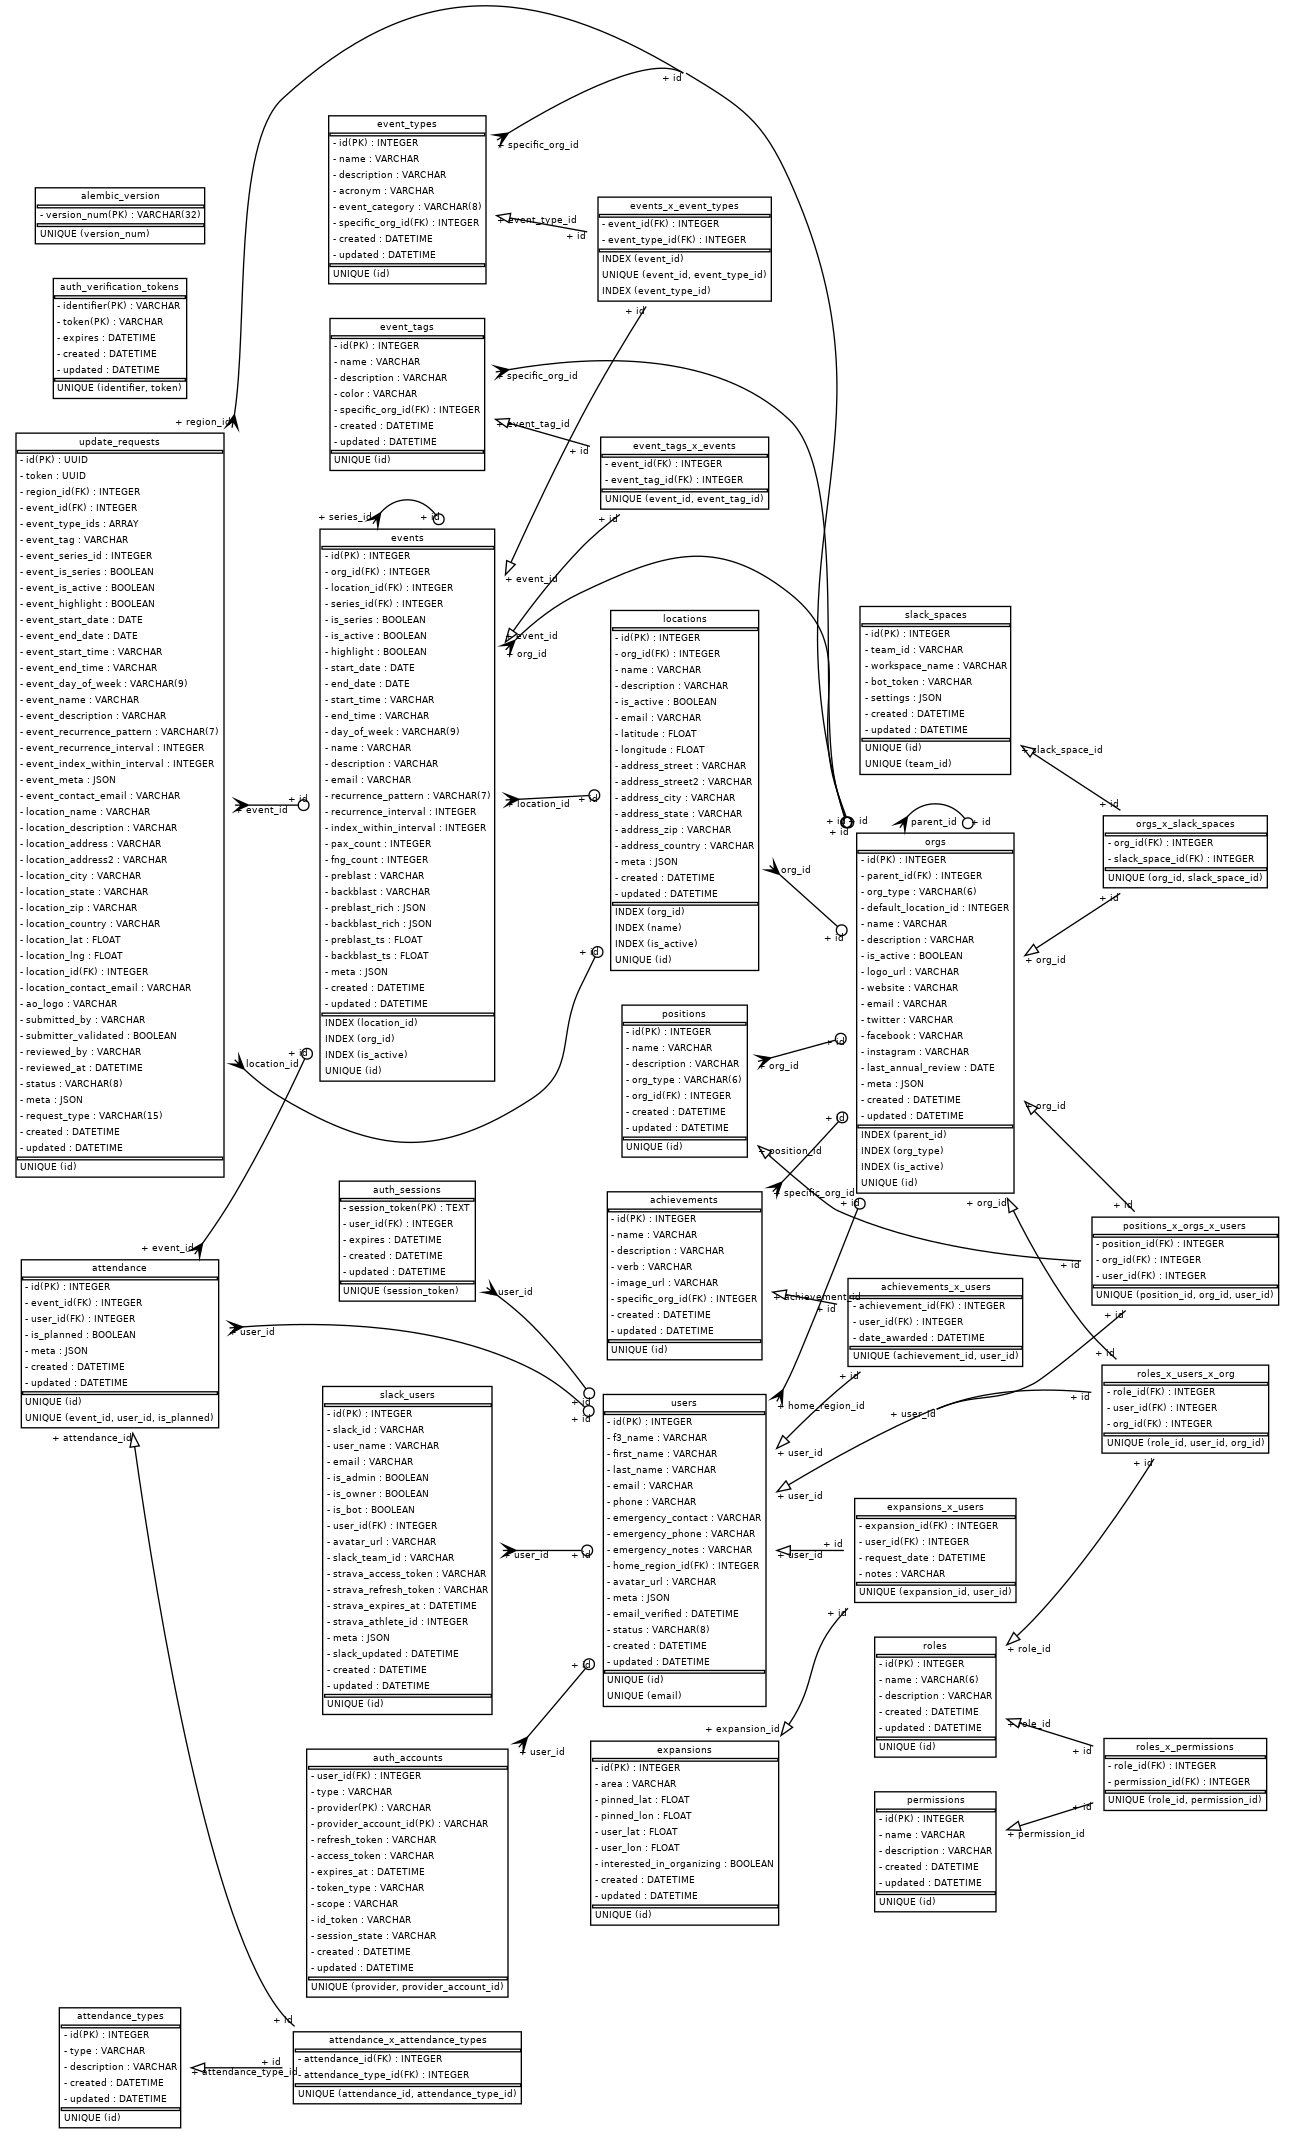
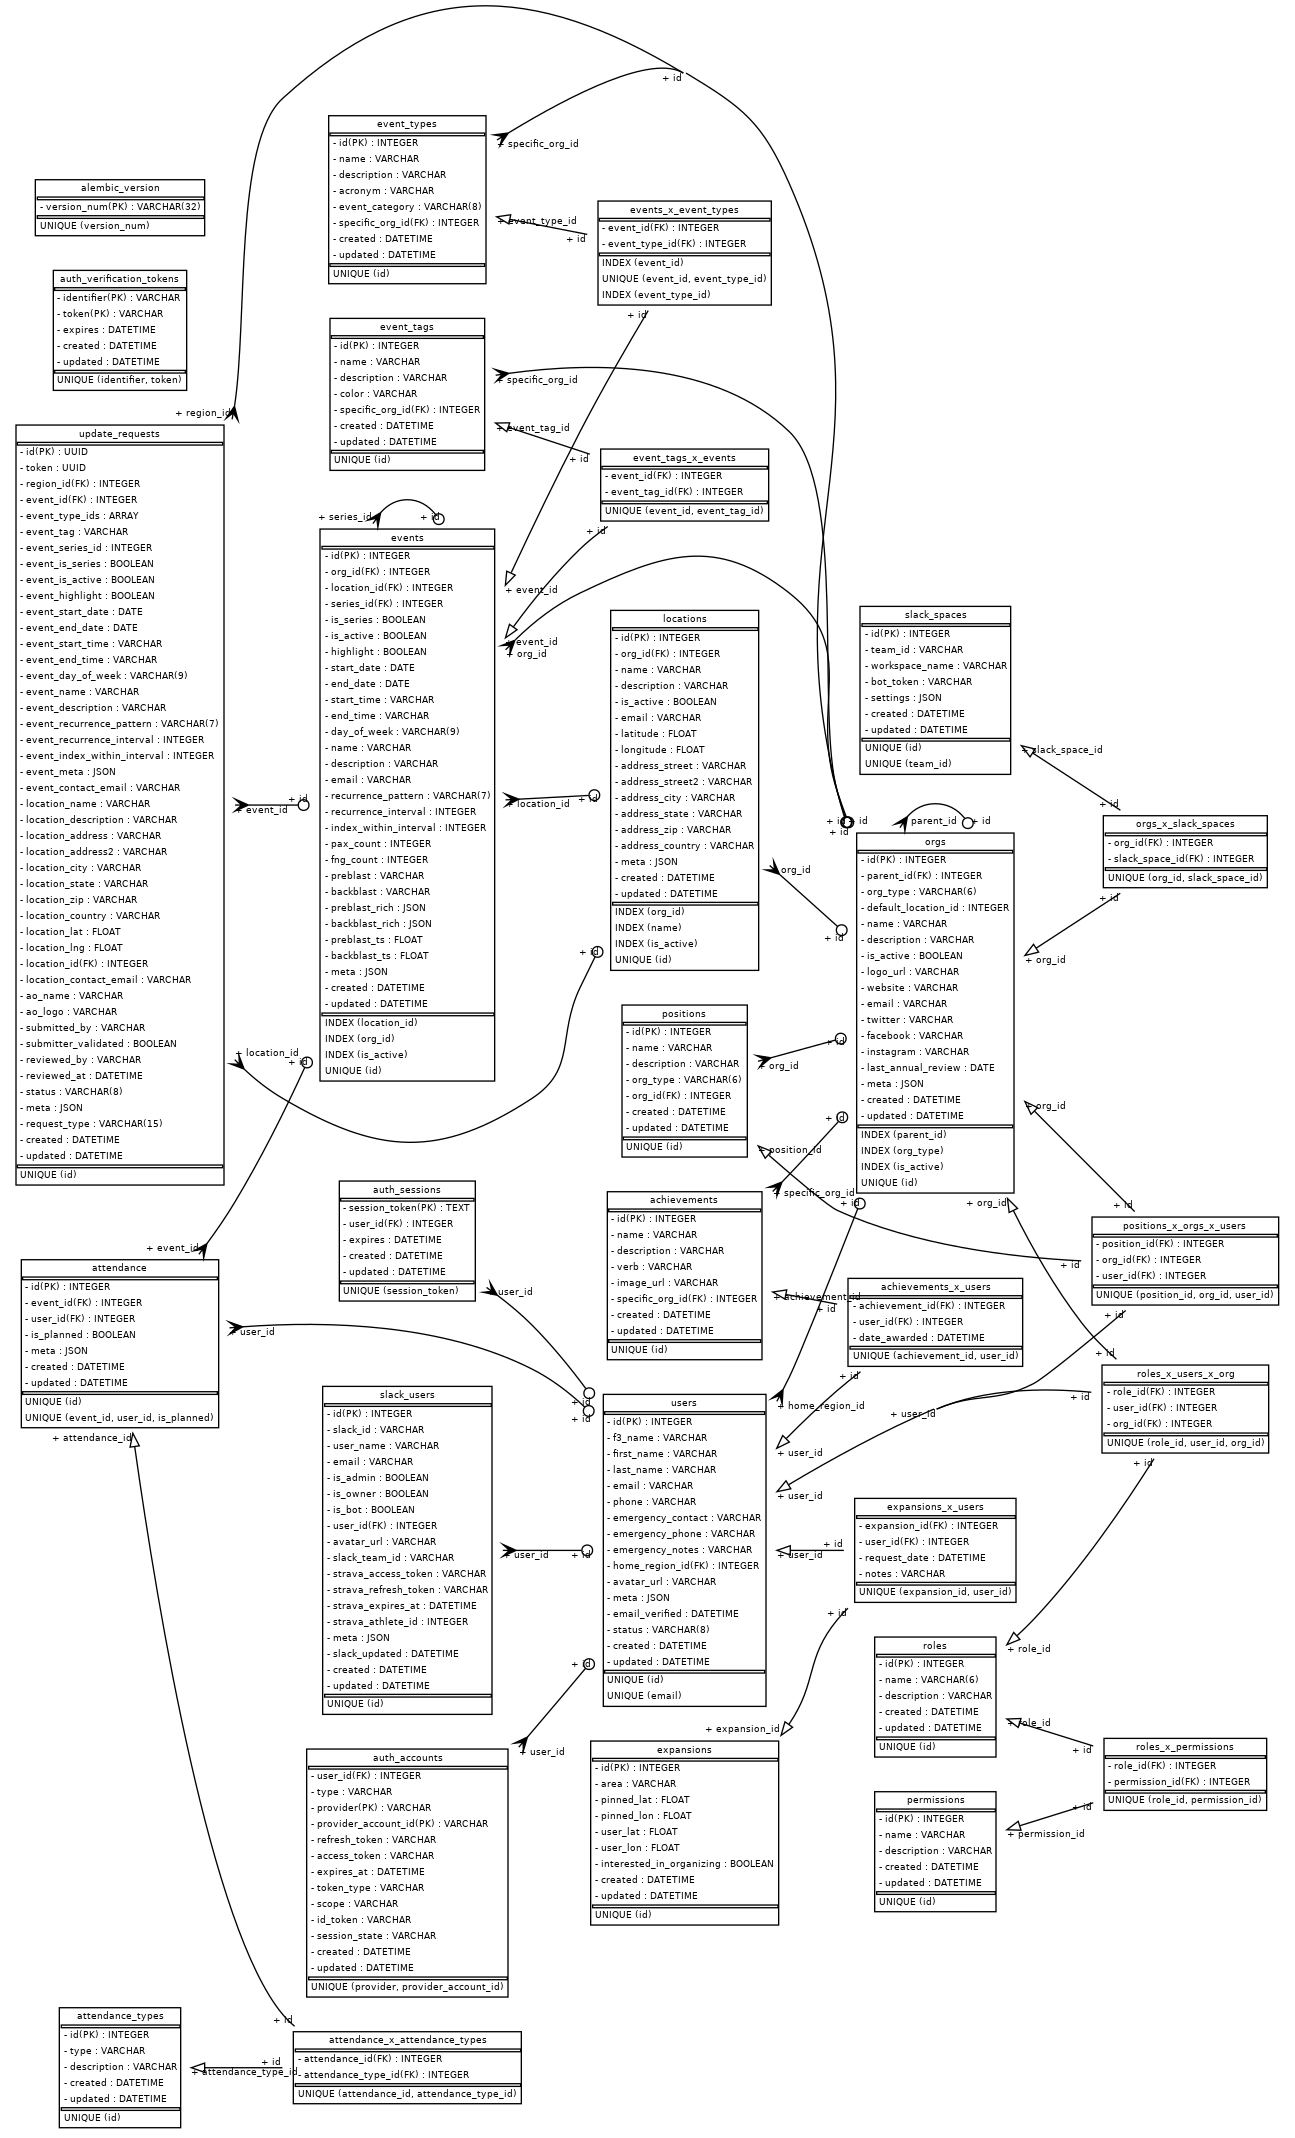
adding ao_name to update_requests

diff --git a/alembic/versions/b1831f06a503_adding_ao_name_to_updaterequests.py b/alembic/versions/b1831f06a503_adding_ao_name_to_updaterequests.py
@@ -1,0 +1,31 @@
+"""adding ao_name to updaterequests
+
+Revision ID: b1831f06a503
+Revises: 12a25ac9d642
+Create Date: 2025-03-11 06:14:02.222946
+
+"""
+
+from typing import Sequence, Union
+
+from alembic import op
+import sqlalchemy as sa
+
+
+# revision identifiers, used by Alembic.
+revision: str = "b1831f06a503"
+down_revision: Union[str, None] = "12a25ac9d642"
+branch_labels: Union[str, Sequence[str], None] = None
+depends_on: Union[str, Sequence[str], None] = None
+
+
+def upgrade() -> None:
+    # ### commands auto generated by Alembic - please adjust! ###
+    op.add_column("update_requests", sa.Column("ao_name", sa.String(), nullable=True))
+    # ### end Alembic commands ###
+
+
+def downgrade() -> None:
+    # ### commands auto generated by Alembic - please adjust! ###
+    op.drop_column("update_requests", "ao_name")
+    # ### end Alembic commands ###

diff --git a/f3_data_models/models.py b/f3_data_models/models.py
@@ -1143,6 +1143,7 @@ class UpdateRequest(Base):
         location_lng (Optional[float]): The longitude of the location.
         location_id (Optional[int]): The ID of the location.
         location_contact_email (Optional[str]): The contact email of the location.
+        ao_name (Optional[text]): The name of the AO.
         ao_logo (Optional[text]): The URL of the AO logo.
         submitted_by (str): The user who submitted the request.
         submitter_validated (Optional[bool]): Whether the submitter has validated the request. Default is False.
@@ -1201,6 +1202,7 @@ class UpdateRequest(Base):
     location_id: Mapped[Optional[int]] = mapped_column(ForeignKey("locations.id"))
     location_contact_email: Mapped[Optional[str]]
 
+    ao_name: Mapped[Optional[text]]
     ao_logo: Mapped[Optional[text]]
 
     submitted_by: Mapped[text]
